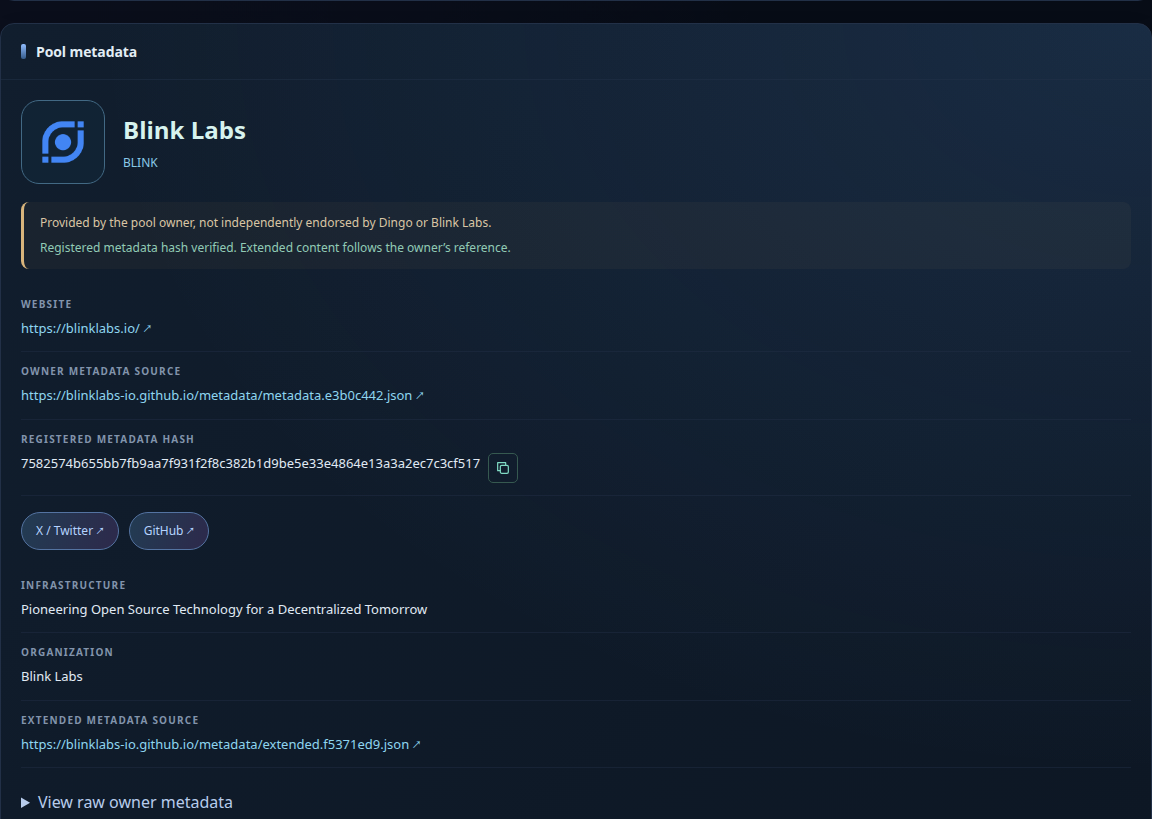
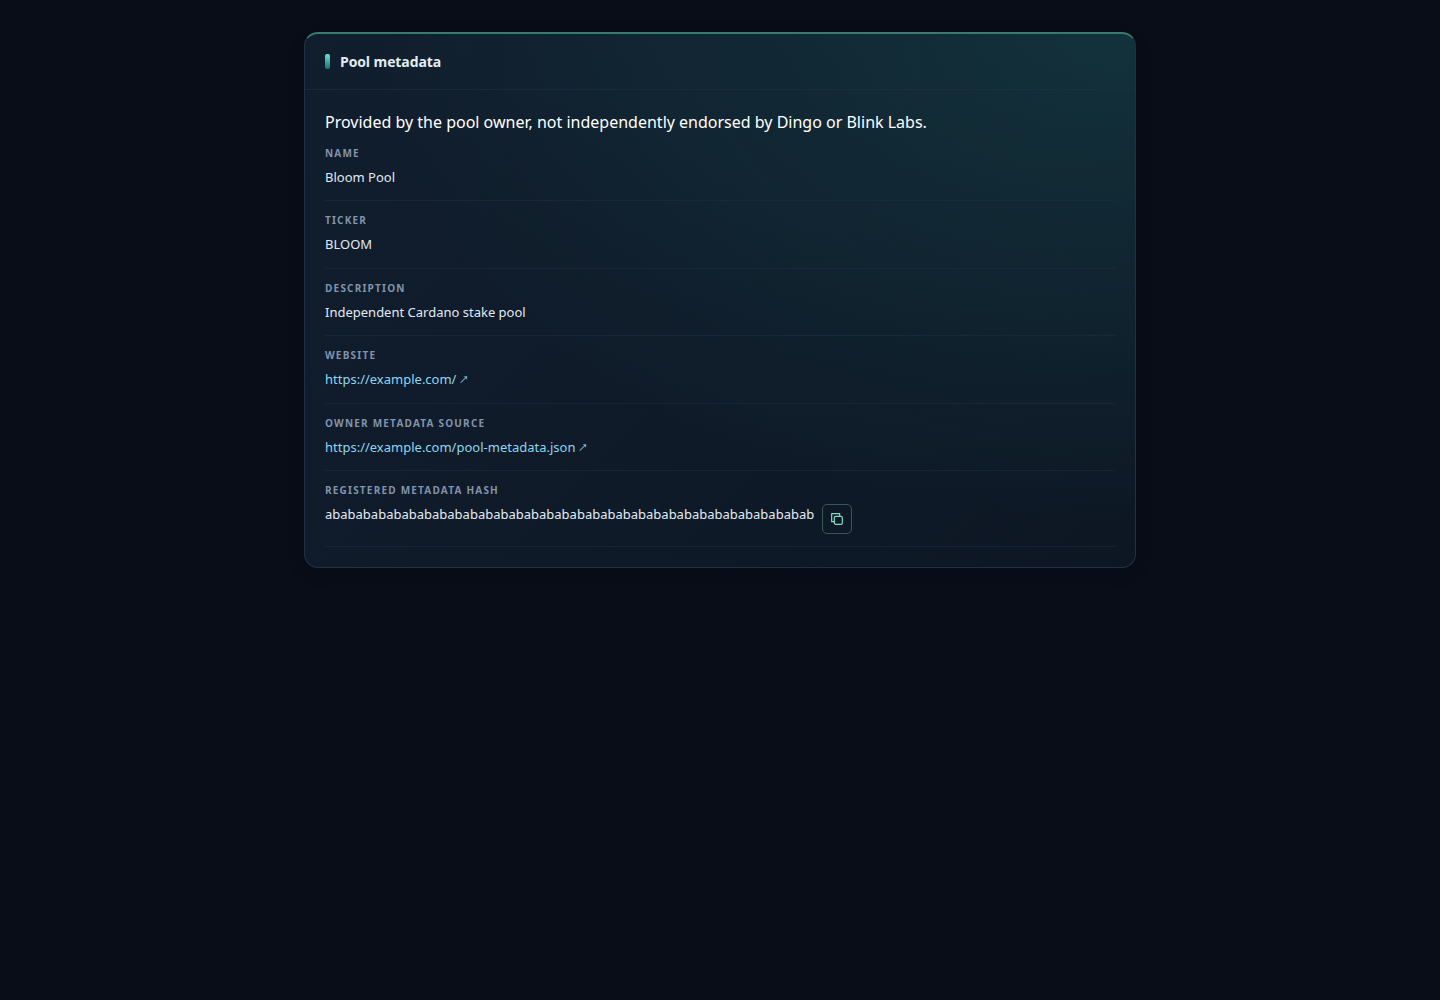
docs: refresh pool profile screenshots

diff --git a/README.md b/README.md
@@ -436,7 +436,7 @@ inferred. Signing still requires explicit approval of the reviewed draft.
 | Transaction flow inspection | [Desktop](docs/screenshots/flow-review1500.jpg) | [Mobile](docs/screenshots/flow-review390.jpg) |
 | Transaction rehearsal | [Desktop](docs/screenshots/rehearsal-review1500.jpg) | [Mobile](docs/screenshots/rehearsal-review390.jpg) |
 | Native-asset rehearsal | [Desktop](docs/screenshots/rehearsal-native1500.jpg) | [Mobile](docs/screenshots/rehearsal-native390.jpg) |
-| Pool owner metadata | [Desktop](docs/screenshots/pool-metadata-safe1440.png) | [Mobile](docs/screenshots/pool-metadata-safe390.png) |
+| Pool owner metadata | [Desktop](docs/screenshots/pool-profile1440.png) | [Mobile](docs/screenshots/pool-profile390.png) |
 
 Pool detail pages show both bech32 and hex pool identifiers, a recent producer
 signal from the current epoch, paginated delegators, and owner metadata with
